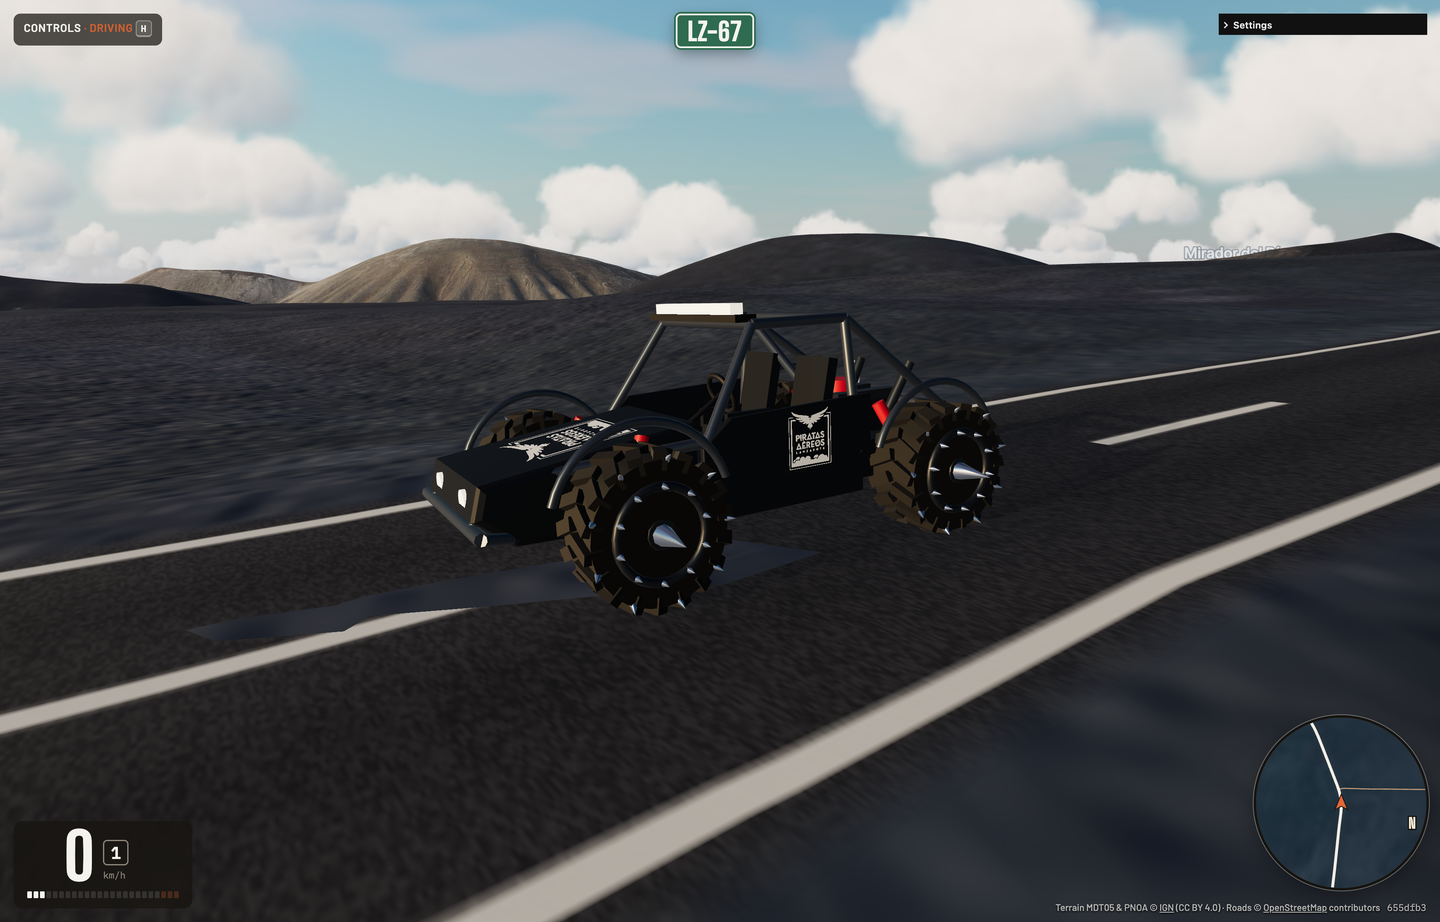
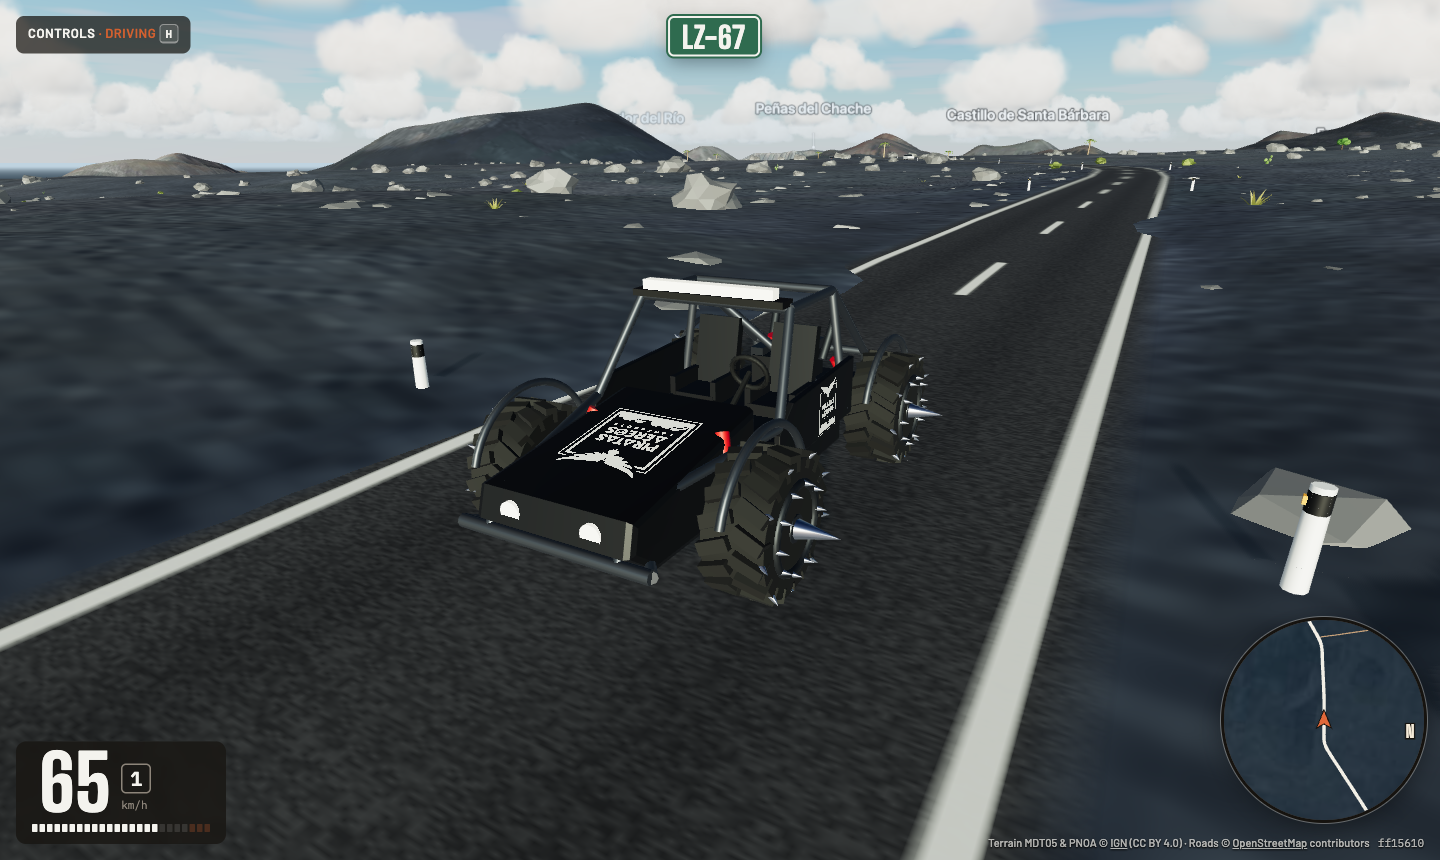
docs: new README screenshots - the Roadster on the LZ-67 and hovering over Timanfaya, the Buggy on the road and on its fighter wings along Famara, the Jet through Mach 1 at wave-top height, on afterburner, greying out and tunnelling toward a blackout, and Starship's liftoff, climb, hot staging and l

diff --git a/README.md b/README.md
@@ -16,7 +16,7 @@ zone, place and vehicle; **M** / **Esc** brings it back.
 
 ![The welcome screen: Lanzarote Drive over the Roadster on the LZ-67 in Timanfaya](docs/screenshots/welcome.png)
 
-![Driving the LZ-30 through La Geria in the late afternoon](docs/screenshots/la-geria.png)
+![The Roadster on the LZ-67 through the lava fields of Timanfaya, Montañas del Fuego behind](docs/screenshots/roadster.png)
 
 ## What's in it
 
@@ -47,15 +47,34 @@ zone, place and vehicle; **M** / **Esc** brings it back.
   trade-wind cumulus, Tenerife's sea of clouds, calima, fog in the Benasque valley (`?wx=`, or Settings).
 - **Surfaces, sound, map, road signs**, and the real sun position for any time of day.
 
-![The Roadster hovering on its floor thrusters above the LZ-203 at dusk](docs/screenshots/roadster-hover.png)
+### The cars
 
-![The Buggy on the LZ-67 in Timanfaya: roll cage, spiked wheels, the Piratas Aéreos badge on the nose and side](docs/screenshots/buggy.png)
+| | |
+|---|---|
+| ![The Roadster hovering on its floor thrusters over the Timanfaya lava](docs/screenshots/roadster-hover.png) | ![The Buggy on the LZ-67: roll cage, spiked wheels, the Piratas Aéreos badge on the nose](docs/screenshots/buggy.png) |
+| **Roadster**, **F**: hovering on its floor thrusters over Timanfaya | **Buggy** on the LZ-67 |
 
-![Calle Trinidad, Arrecife: the OSM buildings drawn as the island's white houses](docs/screenshots/arrecife.png)
+![The Buggy on its fighter wings along the Famara cliffs, red-striped leading edges and twin canted fins](docs/screenshots/buggy-wings.png)
 
-![Off runway 03 at Lanzarote Airport, wings out, climbing over Arrecife](docs/screenshots/flying.png)
+*The Buggy with its wings out, flying along the Famara cliffs.*
 
-![Starship climbing off its tower in El Jable, Teguise and the Atlantic ahead, the webcast telemetry below](docs/screenshots/starship.png)
+### The Jet
+
+| | |
+|---|---|
+| ![The Jet at wave-top height off Famara crossing Mach 1, the cliffs and Mirador del Río ahead](docs/screenshots/jet-supersonic.png) | ![The Jet pulling straight up on afterburner, wingtip vapour trailing over the clouds](docs/screenshots/jet-afterburner.png) |
+| Mach 1 at 30 m over the sea off Famara | Pulling into the vertical on afterburner, vapour off the wingtips |
+| ![Inverted over a Timanfaya crater at 7 g, the view drained of colour](docs/screenshots/jet-greyout.png) | ![8 g held: the view tunnels toward black as the pilot nears G-LOC](docs/screenshots/jet-blackout.png) |
+| Greying out, inverted over a crater at 7 g | Tunnel vision as the g holds: hold it longer and the pilot blacks out |
+
+### Starship
+
+| | |
+|---|---|
+| ![Starship lifting off its tower in El Jable, Teguise and the Atlantic ahead](docs/screenshots/starship-liftoff.png) | ![Starship climbing over Lanzarote, the webcast telemetry below](docs/screenshots/starship-ascent.png) |
+| Liftoff from El Jable | Climbing out over the island |
+| ![Hot staging at 56 km: Starship lights its engines and pulls away from Super Heavy](docs/screenshots/starship-staging.png) | ![Super Heavy's landing burn, dropping back into the tower's chopsticks](docs/screenshots/starship-catch.png) |
+| Hot staging at 56 km | Super Heavy's landing burn, back into the chopsticks |
 
 ## Run it
 

diff --git a/CHANGELOG.md b/CHANGELOG.md
@@ -1,5 +1,13 @@
 # Changelog
 
+## 2026-10-26 19:03
+
+- New README screenshots: the welcome screen, the Roadster on the LZ-67 and hovering over Timanfaya,
+  the Buggy on the road and on its fighter wings along Famara, the Jet through Mach 1 at wave-top
+  height, climbing on afterburner, greying out and tunnelling toward a blackout, and Starship's
+  liftoff, climb, hot staging and the booster's landing burn. Afternoon sun, behind the camera.
+  The old La Geria, Arrecife, wings and Starship shots (retired cars, the settings panel) are gone.
+
 ## 2026-10-26 16:45
 
 - The Buggy's wings look meaner: a fighter planform with a root extension along the tub, a
